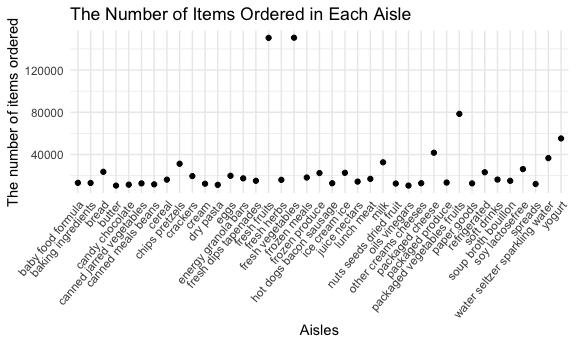
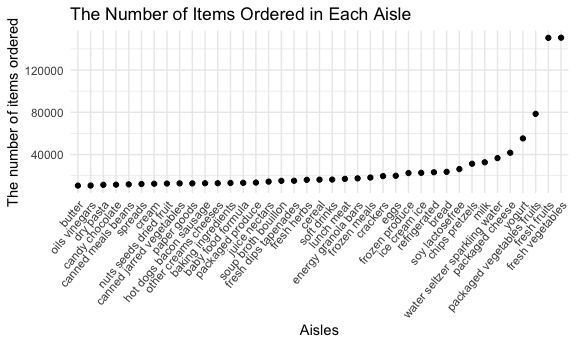
Problem 2

diff --git a/p8105_hw3_xj2278.Rmd-.md b/p8105_hw3_xj2278.Rmd-.md
@@ -92,7 +92,10 @@ There are `134` aisles. The most items ordered form the
 instacart %>% 
   group_by(aisle) %>% 
   summarize(n_obs = n()) %>% 
-  arrange(desc(n_obs)) %>% 
+  mutate(
+    aisle = factor(aisle),
+    aisle = fct_reorder(aisle,n_obs)
+  ) %>%  
   filter(n_obs > 10000) %>% 
   ggplot(aes(x = aisle, y = n_obs)) +
   geom_point() +
@@ -221,3 +224,56 @@ location_2010 =
 In 2002, CT, FL, MA, NC, NJ, PA were observed at 7 or more locations; in
 2010, CA, CO, FL, MA, MD, NC, NE, NJ, NY, OH, PA, SC, TX, WA were
 observed at 7 or more location.
+
+### Construct a dataset that is limited to Excellent responses and make a “spaghetti” plot
+
+``` r
+excellent = 
+  brfss %>% 
+  filter(response %in% "Excellent") %>% 
+  group_by(year, locationabbr) %>% 
+  summarize(average_value = mean(data_value))
+```
+
+``` r
+excellent %>% 
+  ggplot(aes(x = year, y = average_value, color = locationabbr)) +
+  geom_line(aes(group = locationabbr)) +
+  theme(legend.position = "right")
+```
+
+    ## Warning: Removed 3 row(s) containing missing values (geom_path).
+
+<img src="p8105_hw3_xj2278.Rmd-_files/figure-gfm/unnamed-chunk-10-1.png" width="90%" />
+
+The `excellent` table shows a dataset that is limited to Excellent
+responses, and contains, year, state, and a variable that averages the
+data_value across locations within a state.
+
+The spaghetti plot shows the average value over time within every state.
+
+### Distribution of data_value for responses among locations in NY State for 2006 and 2010
+
+``` r
+ny_state = 
+  brfss %>% 
+  filter(locationabbr == "NY", year %in% c("2006", "2010")) 
+
+ny_state %>% 
+  ggplot(aes(x = response, y = data_value)) +
+  geom_boxplot() +
+  facet_grid(. ~ year) +
+  labs(
+    x = "Response",
+    y = "Data value", 
+    title = "Distribution of Data Value for Responses Among Locations in NY"
+  ) +
+  theme_bw()
+```
+
+<img src="p8105_hw3_xj2278.Rmd-_files/figure-gfm/unnamed-chunk-11-1.png" width="90%" />
+
+The two-panel boxplot shows the distribution of data_value for responses
+among locations in NY State for 2006 and for 2010.
+
+# Problem 3
